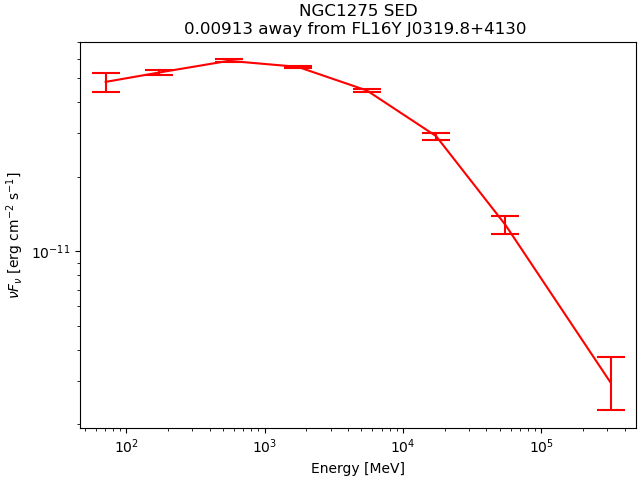
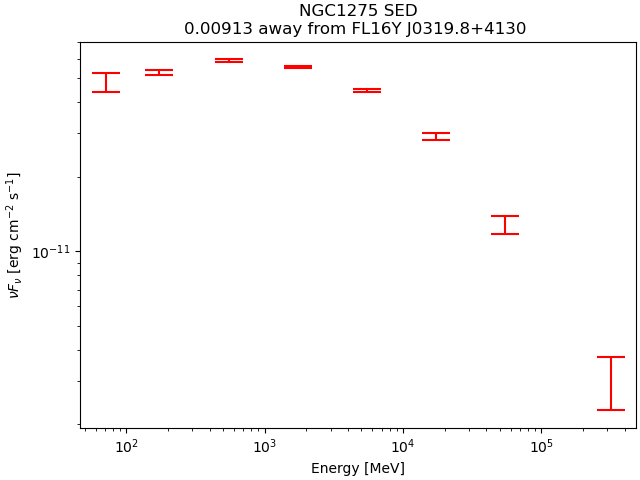
g

diff --git a/fermi/plotsed.py b/fermi/plotsed.py
@@ -34,7 +34,7 @@ for i, s in enumerate(inputName):
     plt.figure(layout='constrained')
     plt.errorbar(e_mids,nuFnu,
             yerr=[nuerr_lo,nuerr_hi],
-            uplims=uplim_mask,color='r',
+            uplims=uplim_mask,color='r',fmt='none',
             capsize=10,capthick=1.5,elinewidth=1.5)
             
     plt.yscale('log')
